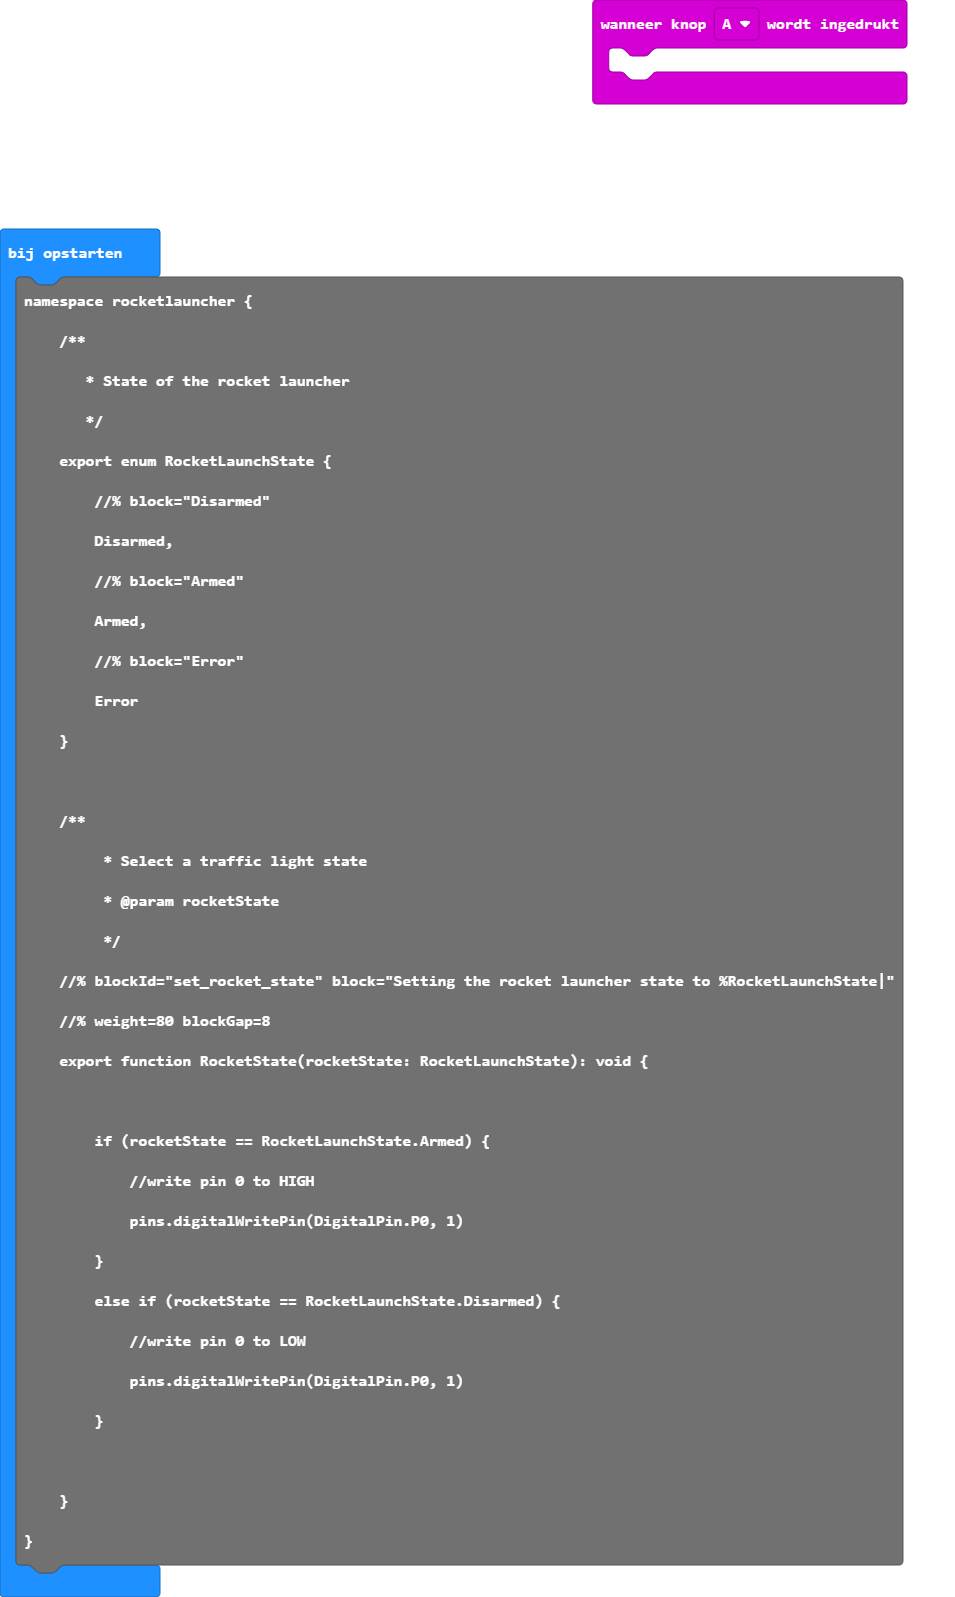
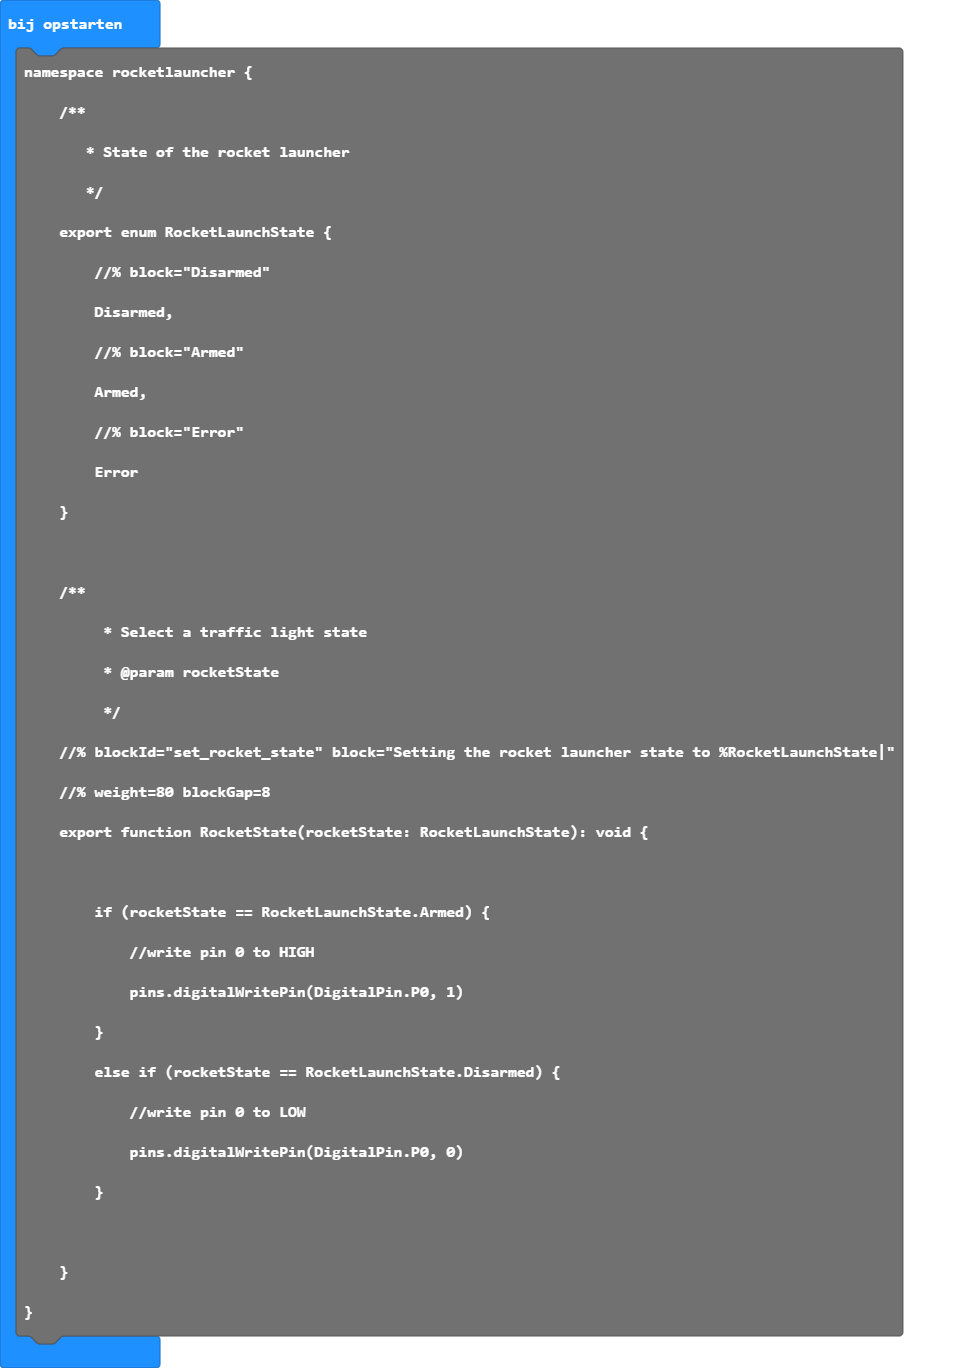
main.blocks, main.ts bijwerken

diff --git a/main.ts b/main.ts
@@ -1,35 +1,96 @@
-input.onButtonPressed(Button.A, function () {
-	
-})
-namespace rocketlauncher {
-    /**
+/**
        * State of the rocket launcher
        */
-    export enum RocketLaunchState {
-        //% block="Disarmed"
-        Disarmed,
-        //% block="Armed"
-        Armed,
-        //% block="Error"
-        Error
-    }
+enum RocketLaunchState {
+    //% block="Disarmed"
+    Disarmed,
+    //% block="Armed"
+    Armed,
+    //% block="Error"
+    Error
+}
 
-    /**
-         * Select a traffic light state
+namespace rocketlauncher {
+    
+
+
+    export class rocket {
+        launchpin: DigitalPin;
+        countdown: number; // countdown in milliseconds
+        name: String;
+        mode: RocketLaunchState;
+
+        /**
+         * initiate the launch sequence.
+         */
+        //% blockId="initiate-launch" block="%Rocket.|launch" blockGap=8
+        //% rocket.defl=rocket
+        //% weight=79
+        //% parts="rocket"
+        initiateLaunch() {
+            if(this.mode==RocketLaunchState.Armed){
+                //start countdown
+                basic.pause(this.countdown);
+                //write pin 1 to HIGH 
+                pins.digitalWritePin(DigitalPin.P1, 1)
+                // cooldown and shutdown
+                basic.pause(500);
+                pins.digitalWritePin(DigitalPin.P1, 0)
+            }
+            else{
+                this.mode=RocketLaunchState.Error
+            }
+        }
+
+        /**
+         * Set the rocket state
          * @param rocketState
          */
-    //% blockId="set_rocket_state" block="Setting the rocket launcher state to %RocketLaunchState|"
-    //% weight=80 blockGap=8
-    export function RocketState(rocketState: RocketLaunchState): void {
+        //% blockId="set_rocket_state" block="Set rocket state to %RocketLaunchState|"
+        //% weight=80 blockGap=8
+        setRocketState(rocketState: RocketLaunchState): void {
 
-        if (rocketState == RocketLaunchState.Armed) {
-            //write pin 0 to HIGH 
-            pins.digitalWritePin(DigitalPin.P0, 1)
+            if (rocketState == RocketLaunchState.Armed) {
+                //write pin 0 to HIGH 
+                pins.digitalWritePin(DigitalPin.P0, 1)
+            }
+            else if (rocketState == RocketLaunchState.Disarmed) {
+                //write pin 0 to LOW
+                pins.digitalWritePin(DigitalPin.P0, 0)
+            }
+
         }
-        else if (rocketState == RocketLaunchState.Disarmed) {
-            //write pin 0 to LOW
-            pins.digitalWritePin(DigitalPin.P0, 0)
-        }
+
 
     }
+
+/**
+ * 
+ * VISIBLE FUNCTIONS
+ * 
+ */
+
+    /**
+         * Create a new rocket 
+         * @param launchpin the pin where the rocket launch mechanism is conneted to.
+         * @param countdown
+         */
+    //% blockId="rocket_create" block="Initialize rocket with name %_name|with launch delay %countdown|on launchpin %launchpin"
+    //% weight=90 blockGap=8
+    //% parts="rocket"
+    //% trackArgs=0,2
+    //% blockSetVariable=strip
+    export function create(launchpin: DigitalPin,countdown:number, name: String, mode: RocketLaunchState): rocket {
+        let r = new rocket();
+        r.name=name
+        r.countdown = countdown
+        r.mode = mode
+        return r;
+    }
+
+
+
+    
 }
+
+
